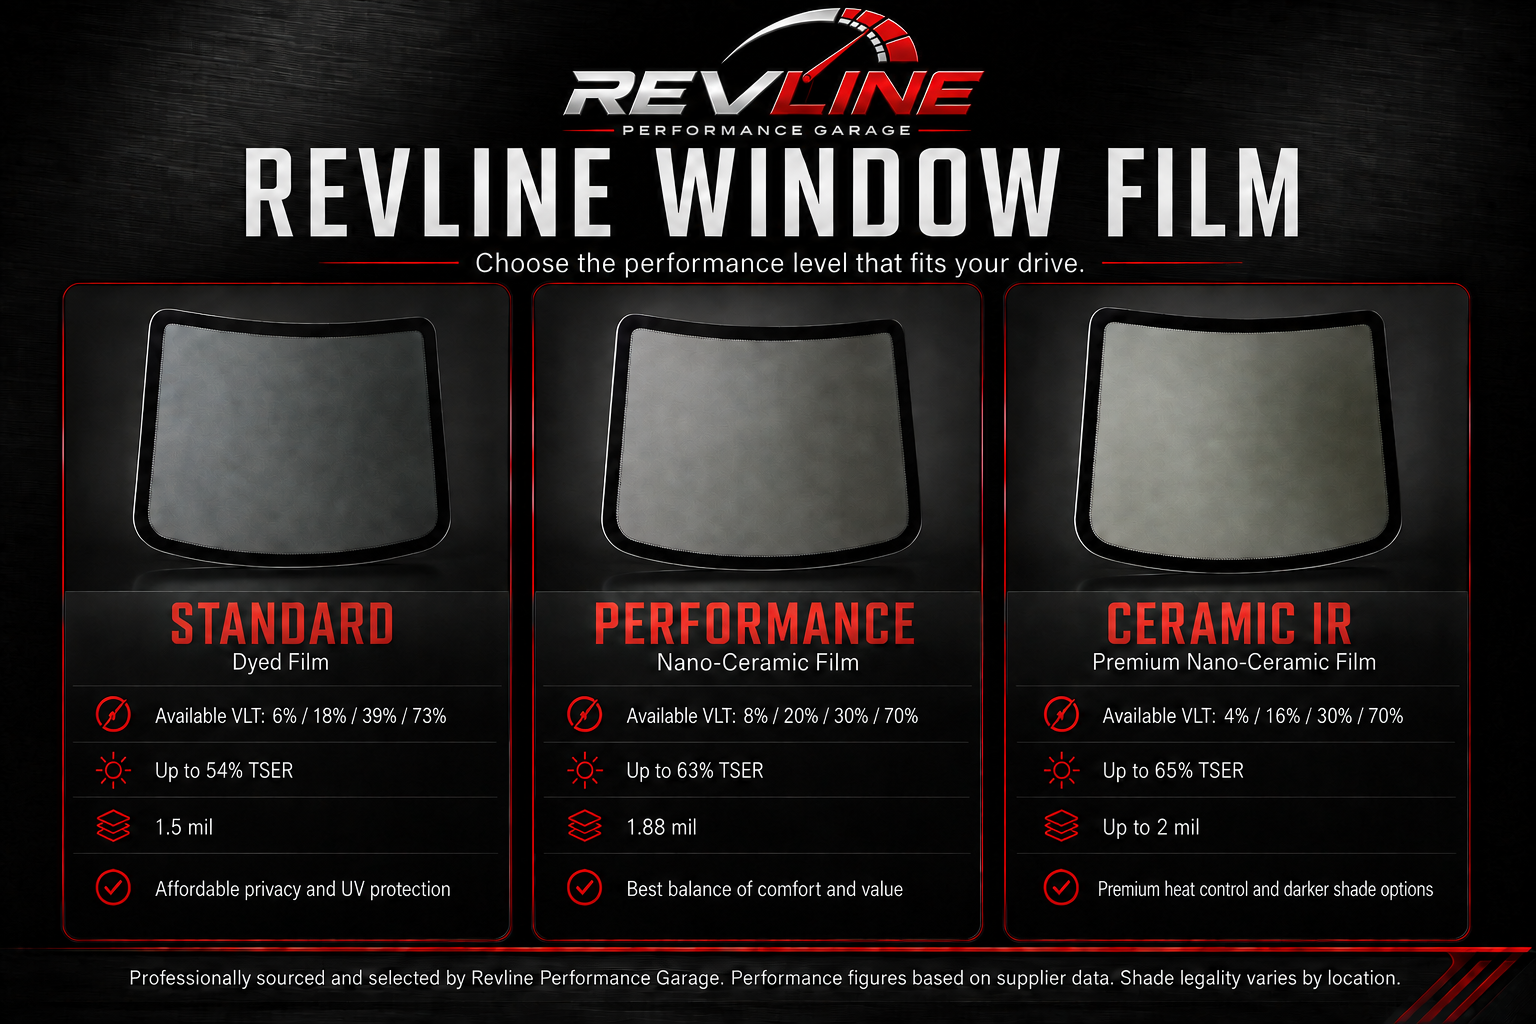
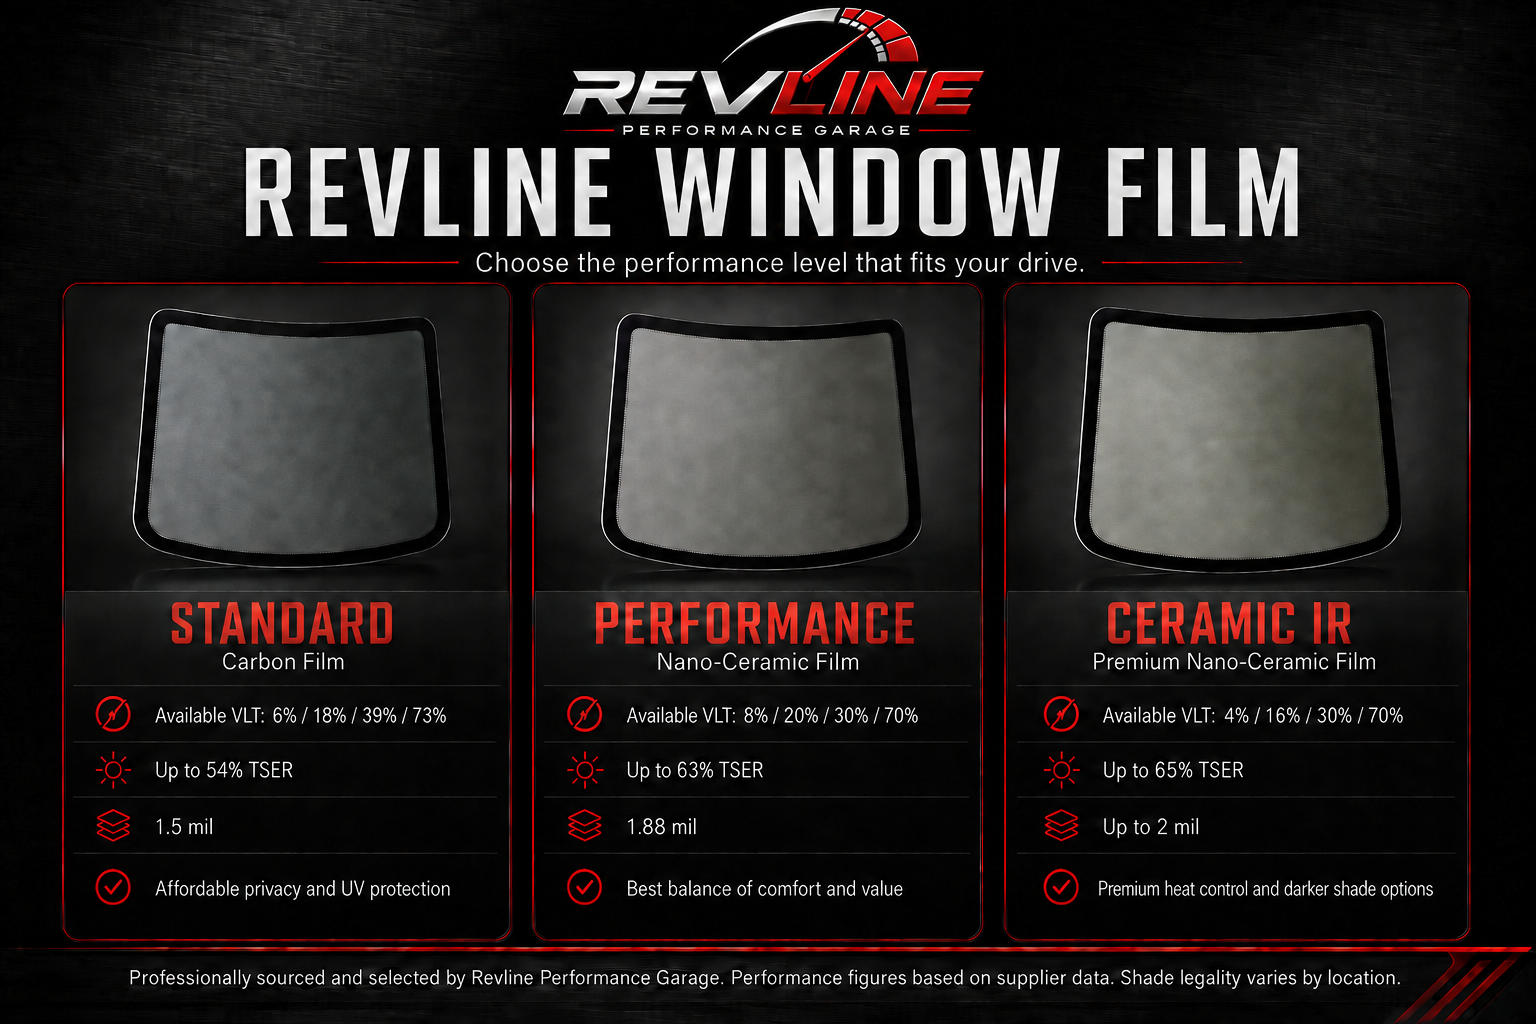
Label Standard tint as carbon film

diff --git a/api/chat.js b/api/chat.js
@@ -16,7 +16,7 @@ Business facts:
 - Experience: 9+ years.
 - Appointment requests are submitted at /contact.html#contact-form. A request is not a confirmed appointment; the Revline team follows up.
 - Core work includes routine maintenance, diagnostics, engine and transmission service, brakes, steering, suspension, electrical and climate concerns, tires, inspections, performance upgrades, and custom automotive projects.
-- Appearance options include vehicle-specific pre-cut Revline Window Film in Standard, Performance, and Ceramic IR tiers. Available VLT depends on the selected tier. Revline verifies vehicle fitment before payment. Revline does not install these pre-cut kits.
+- Appearance options include vehicle-specific pre-cut Revline Window Film in Standard Carbon, Performance, and Ceramic IR tiers. Available VLT depends on the selected tier. Revline verifies vehicle fitment before payment. Revline does not install these pre-cut kits.
 - Golden Finish is a trusted appearance-service partner. Revline Window Film is professionally sourced and selected by Revline; do not claim that Revline manufactures the film.
 - The Revline shop currently offers a Signature Hoodie ($69), Performance T-Shirt ($34), and Performance Quarter-Zip ($59) through secure Stripe checkout on /shop.html.
 - RPG Premium Vinyl is available through a request-first catalog at /vinyl.html with 211 colors across gloss, satin, metallic, carbon, color-shift, crystal, laser, pearl, and specialty collections. The only available size is a 5 ft × 60 ft full roll. Revline confirms inventory, quantity, price, Denver pickup or U.S. shipping, and sends a secure payment link before collecting payment.

diff --git a/tint.html b/tint.html
@@ -83,7 +83,7 @@
         <p>Standard delivers affordable privacy, Performance is our best balance of comfort and value, and Ceramic IR provides our highest listed total solar-energy rejection.</p>
       </div>
       <figure class="tint-comparison-figure">
-        <img src="images/revline-window-film-comparison.png" alt="Comparison of Revline Standard, Performance, and Ceramic IR window film tiers, including available VLT, TSER, and thickness." />
+        <img src="images/revline-window-film-comparison.png?v=20260906-2" alt="Comparison of Revline Standard Carbon, Performance, and Ceramic IR window film tiers, including available VLT, TSER, and thickness." />
         <figcaption>Performance figures are based on supplier data. Actual appearance varies by vehicle glass and lighting.</figcaption>
       </figure>
     </section>
@@ -158,7 +158,7 @@
             <label for="tint-tier">Film tier</label>
             <select id="tint-tier" name="film_tier" required>
               <option value="">Select film tier</option>
-              <option value="Standard">Standard · Dyed Film</option>
+              <option value="Standard">Standard · Carbon Film</option>
               <option value="Performance">Performance · Nano-Ceramic</option>
               <option value="Ceramic IR">Ceramic IR · Premium Nano-Ceramic</option>
             </select>
